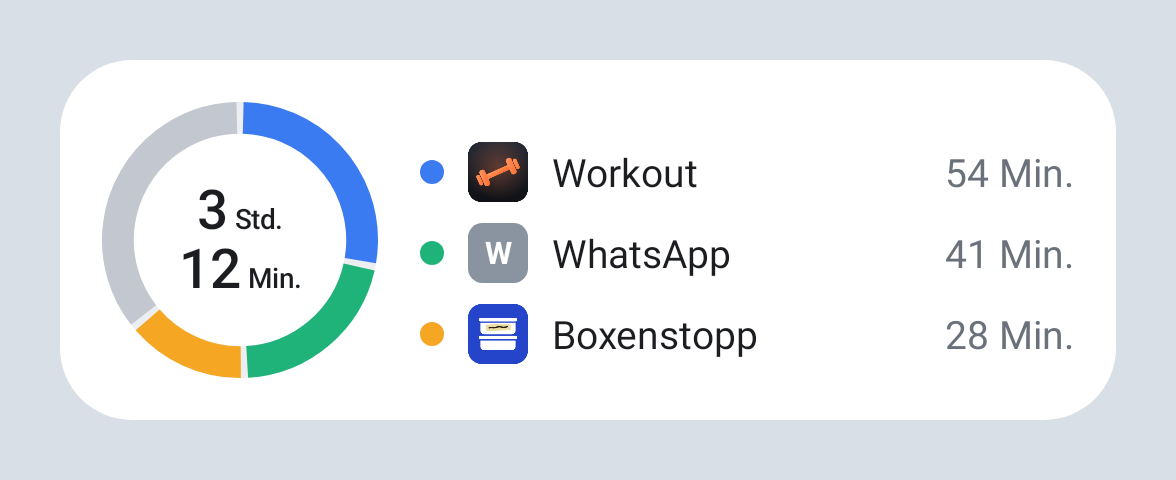
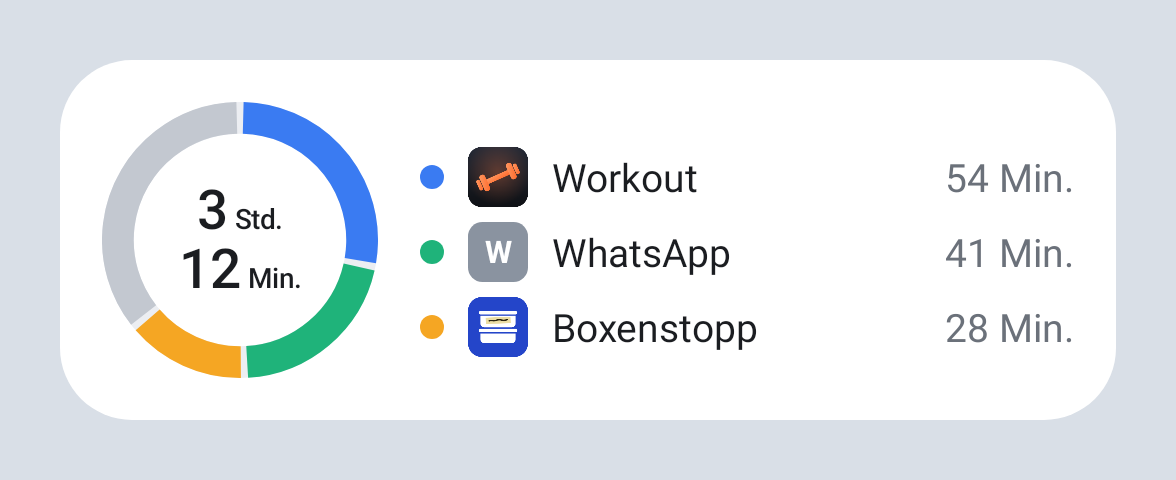
Widget: „Andere Apps“ als vierte Zeile – der graue Rest des Rings
Tobi: „Hab ich wirklich nur diese drei Apps heute verwendet?“ (Widget mit
Claude, Boxenstopp, Chrome; 36 Min., davon 9 im grauen Rest). Unter den
Top 3 steht jetzt „● Andere Apps 1:09 Std.“ (unter 290 dp „Andere“). Ist das
Widget flacher als 172 dp, steht der Rest vorn im Stand („… andere · Stand
08:40“). Die Abstände der Zeilen sind dafür enger (5 statt 7 dp), damit bei
4×2 auch der Stand ganz bleibt.

- VorschauTest andereAppsAlsVierteZeile: 352×176, Tobis 400×201, 300 und
  264 dp breit, die Grenze 172 dp, flach im Stand, nur drei Apps ohne
  Zusatz – und dass der Stand nie abgeschnitten ist.
- Vorschaubilder in docs/ und für die Widget-Auswahl neu.
- README: Entscheidung samt Zitat; Stand: die Freigabe ging um 08:40.

Claude-Session: https://claude.ai/code/session_01T7EkPKmbwzuumuawqyKHqq

diff --git a/android/app/src/test/kotlin/de/finanzdienste/bildschirmzeit/VorschauTest.kt b/android/app/src/test/kotlin/de/finanzdienste/bildschirmzeit/VorschauTest.kt
@@ -105,6 +105,43 @@ class VorschauTest {
         assertEquals(0, breit.findViewById<TextView>(R.id.name2).layout.getEllipsisCount(0))
     }
 
+    /**
+     * Tobi, 15.11. (Widget: Claude, Boxenstopp, Chrome, 36 Min.): „Hab ich
+     * wirklich nur diese drei Apps heute verwendet?“ – der graue Rest des Rings
+     * steht als vierte Zeile „Andere Apps“ da; ist das Widget zu flach, vorn im
+     * Stand. Die Spalte muss dabei ganz ins Widget passen.
+     */
+    @Test
+    fun andereAppsAlsVierteZeile() {
+        // Rest von beispiel(): Chrome 26 + Karten 21 + Freizeit 14 + Kamera 8 = 69 Min.
+        // 352 × 176: S24, 4×5-Raster (Annahme); 400 × 201: Tobis Widget, aus seinem Screenshot gemessen;
+        // 352 × 172: gerade noch vier Zeilen.
+        for ((breite, hoehe) in listOf(352f to 176f, 400f to 201f, 300f to 176f, 264f to 176f, 352f to 172f)) {
+            val view = aufgebaut(WidgetAnsicht.gross(kontext, beispiel(), breite, hoehe), breite, hoehe)
+            val wo = "$breite × $hoehe dp"
+            assertEquals(wo, View.VISIBLE, view.findViewById<View>(R.id.zeile4).visibility)
+            assertEquals(wo, if (breite < 290f) "Andere" else "Andere Apps", view.findViewById<TextView>(R.id.name4).text.toString())
+            assertEquals(wo, "1:09 Std.", view.findViewById<TextView>(R.id.zeit4).text.toString())
+            assertEquals(wo, 0, view.findViewById<TextView>(R.id.name4).layout.getEllipsisCount(0))
+            val stand = view.findViewById<TextView>(R.id.stand)
+            assertEquals(wo, "Stand 21:40", stand.text.toString())
+            standGanz(stand, wo)
+        }
+        // Zu flach für vier Zeilen: der Rest vorn im Stand – und der Stand ganz zu sehen.
+        for (hoehe in listOf(171f, 150f, 130f)) {
+            val flach = aufgebaut(WidgetAnsicht.gross(kontext, beispiel(), 352f, hoehe), 352f, hoehe)
+            assertEquals("352 × $hoehe", View.GONE, flach.findViewById<View>(R.id.zeile4).visibility)
+            val stand = flach.findViewById<TextView>(R.id.stand)
+            assertEquals("352 × $hoehe", "1:09 Std. andere · Stand 21:40", stand.text.toString())
+            standGanz(stand, "352 × $hoehe")
+        }
+        // Nur drei Apps: keine vierte Zeile, kein Zusatz.
+        val drei = beispiel().let { it.copy(posten = it.posten.take(3)) }
+        val nurDrei = aufgebaut(WidgetAnsicht.gross(kontext, drei, 352f, 176f), 352f, 176f)
+        assertEquals(View.GONE, nurDrei.findViewById<View>(R.id.zeile4).visibility)
+        assertEquals("Stand 21:40", nurDrei.findViewById<TextView>(R.id.stand).text.toString())
+    }
+
     @Test
     fun auswahlBilder() {
         // Für res/drawable-nodpi/widget_vorschau.png (und -night-): ohne Hintergrund.
@@ -131,6 +168,13 @@ class VorschauTest {
         val datei = File(ordner, "vorschau-$name.png")
         datei.outputStream().use { bild.compress(Bitmap.CompressFormat.PNG, 100, it) }
         assertTrue(datei.length() > 1000)
+    }
+
+    /** Die letzte Zeile der Spalte liegt ganz im Widget – sonst schnitte der Startbildschirm den Stand ab. */
+    private fun standGanz(stand: TextView, wo: String) {
+        val spalte = stand.parent as View
+        assertTrue("$wo: Stand abgeschnitten (unten ${stand.bottom} > ${spalte.height} px)", stand.bottom <= spalte.height)
+        assertTrue("$wo: Spalte höher als das Widget", spalte.top >= 0 && spalte.bottom <= (spalte.parent as View).height)
     }
 
     /** Die RemoteViews als echte Views, gemessen und gelegt in breite × hoehe dp. */

diff --git a/android/app/src/main/kotlin/de/finanzdienste/bildschirmzeit/WidgetAnsicht.kt b/android/app/src/main/kotlin/de/finanzdienste/bildschirmzeit/WidgetAnsicht.kt
@@ -20,8 +20,10 @@ import androidx.core.os.BundleCompat
 import kotlin.math.roundToInt
 
 /**
- * Zeichnet das Widget: Ring mit Gesamtzeit, daneben „Bildschirmzeit“ und die
- * Top 3, unten der Stand. Unter GROSS_AB_DP Breite (2×2) nur der Ring, unter
+ * Zeichnet das Widget: Ring mit Gesamtzeit, daneben „Bildschirmzeit“, die
+ * Top 3 und „Andere Apps“ (alle übrigen zusammen, der graue Teil des Rings),
+ * unten der Stand. Ist das Widget zu flach für die vierte Zeile, steht der
+ * Rest vorn im Stand („9 Min. andere · Stand 08:40“). Unter GROSS_AB_DP Breite (2×2) nur der Ring, unter
  * SCHMAL_DP (3×2) ein kleinerer Ring und Zeilen ohne App-Symbol – sonst
  * blieben bei langen Zeiten von den Namen nur „Worko…“.
  *
@@ -38,6 +40,9 @@ object WidgetAnsicht {
     private const val SYMBOL_DP = 20f
     private const val FLACH_DP = 150f
     private const val SEHR_FLACH_DP = 125f
+    // Titel, vier Zeilen und Stand brauchen gut 144 dp plus den Rand (VorschauTest prüft es).
+    private const val VIER_ZEILEN_DP = 172f
+    private const val SEHR_SCHMAL_DP = 290f
 
     private val ZEILEN = intArrayOf(R.id.zeile1, R.id.zeile2, R.id.zeile3)
     private val PUNKTE = intArrayOf(R.id.punkt1, R.id.punkt2, R.id.punkt3)
@@ -106,7 +111,17 @@ object WidgetAnsicht {
             v.setTextViewText(ZEITEN[i], kurzText(p.sekunden))
         }
         v.setViewVisibility(R.id.leer, if (top.isEmpty()) View.VISIBLE else View.GONE)
-        v.setTextViewText(R.id.stand, standText(ergebnis))
+        // Tobi, 15.11.: „Hab ich wirklich nur diese drei Apps heute verwendet?“ – der graue Rest bekommt eine Zeile.
+        val rest = ergebnis.posten.drop(3).sumOf { it.sekunden }
+        val restZeile = rest > 0 && hoehe >= VIER_ZEILEN_DP
+        v.setViewVisibility(R.id.zeile4, if (restZeile) View.VISIBLE else View.GONE)
+        if (restZeile) {
+            farbeSetzen(v, R.id.punkt4, RingFarben.HELL.rest, RingFarben.DUNKEL.rest, context)
+            v.setTextViewText(R.id.zeit4, kurzText(rest))
+            // Sehr schmal (3×2 auf engen Rastern): „Andere“ statt „Andere A…“.
+            v.setTextViewText(R.id.name4, context.getString(if (breite < SEHR_SCHMAL_DP) R.string.widget_andere_kurz else R.string.widget_andere))
+        }
+        v.setTextViewText(R.id.stand, if (rest > 0 && !restZeile) "${kurzText(rest)} andere · ${standText(ergebnis)}" else standText(ergebnis))
         // Flache Widgets (manche Startbildschirme, 4×1½): erst der Titel weg, dann der Stand.
         v.setViewVisibility(R.id.titel, if (hoehe < FLACH_DP) View.GONE else View.VISIBLE)
         v.setViewVisibility(R.id.stand, if (hoehe < SEHR_FLACH_DP) View.GONE else View.VISIBLE)

diff --git a/README.md b/README.md
@@ -8,7 +8,7 @@
 > wie bisher.“ – Tobi
 
 Eine kleine Android-App mit Widget: Ring mit der Bildschirmzeit von heute,
-daneben die Top 3 – und Boxenstopp, Freizeit und Workout stehen dort unter
+daneben die Top 3 und „Andere Apps“ – und Boxenstopp, Freizeit und Workout stehen dort unter
 eigenem Namen und mit eigenem Symbol statt als „Chrome“.
 
 ![Widget 4×2, hell](docs/vorschau-gross-hell.png)
@@ -30,6 +30,16 @@ ganz bleiben),
   (Risiko ist erklärt, unten „Signaturschlüssel“).
 - Der Ring zeigt die Anteile der Apps: voller Ring = Gesamtzeit heute, Top 3
   farbig (blau, grün, orange), der Rest grau.
+- „Hab ich wirklich nur diese drei Apps heute verwendet?“ (15.11., Widget mit
+  Claude 16, Boxenstopp 6, Chrome 5 von 36 Min.) – seit Release v5 steht der
+  graue Rest als vierte Zeile „Andere Apps“ da (unter 290 dp Breite „Andere“).
+  Vorher: nur die Top 3, der Rest war nur grau im Ring. Ist das Widget flacher
+  als 172 dp, steht er vorn im Stand („1:09 Std. andere · Stand 21:40“); ganz
+  flach (unter 125 dp) fällt der Stand samt Rest weg. Dafür sind die Abstände
+  der Zeilen etwas enger (5 statt 7 dp). Geprüft in VorschauTest
+  `andereAppsAlsVierteZeile` (auch, dass der Stand nie abgeschnitten wird –
+  bei 352 × 176 dp war er es im ersten Versuch). Tobis Widget meldet laut
+  Screenshot etwa 400 × 201 dp.
 - Verbunden wird aus der Widget-App (je App ein Knopf „Verbinden“); die
   Web-Apps zeigen nur „verbunden · Trennen“.
 
@@ -315,7 +325,10 @@ spricht mit dem echten Supabase oder GitHub (`Netz.gesperrt`).
   noch; Verdacht: die Automatische Sperre, die laut Schritt 3 nach der
   Installation wieder an war. Seit Release v3 nennt der Hinweis das, dazu den
   Weg über Einstellungen → Apps (ob die App-Info, aus der App geöffnet, das
-  Menü zeigt, ist bei Samsung nicht sicher). Noch offen, ob es so geht.
+  Menü zeigt, ist bei Samsung nicht sicher). Um 08:39 kam beim Antippen
+  „App wurde Zugriff verweigert“ → „Schließen“, um 08:40 zeigte das Widget
+  Zahlen (36 Min.) – die Freigabe ging also. Ob die Automatische Sperre
+  dabei aus sein musste, ist nicht bekannt.
 - Noch nicht auf dem S24 ausprobiert: Größen des Startbildschirms, Akku-
   Verhalten von One UI, ob Chrome den Verbinden-Link in der installierten
   Web-App oder als Tab öffnet (beides teilt sich den Speicher).
